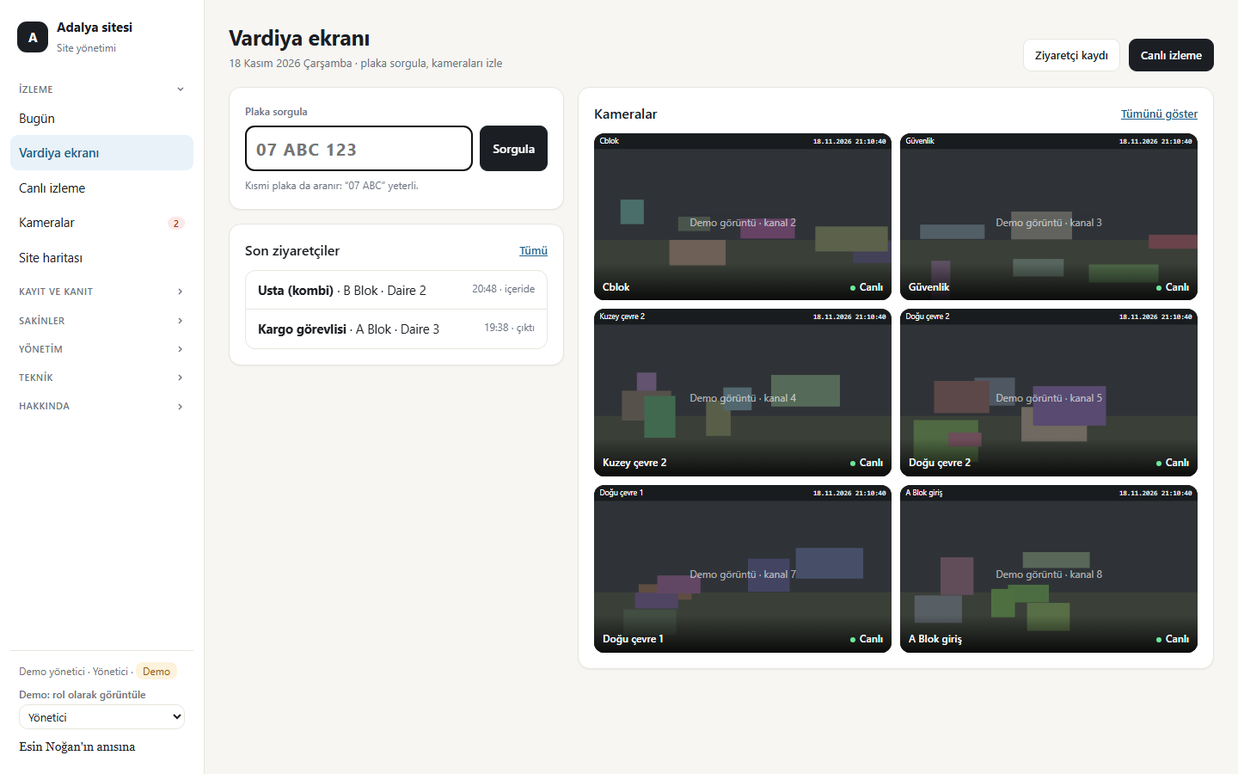
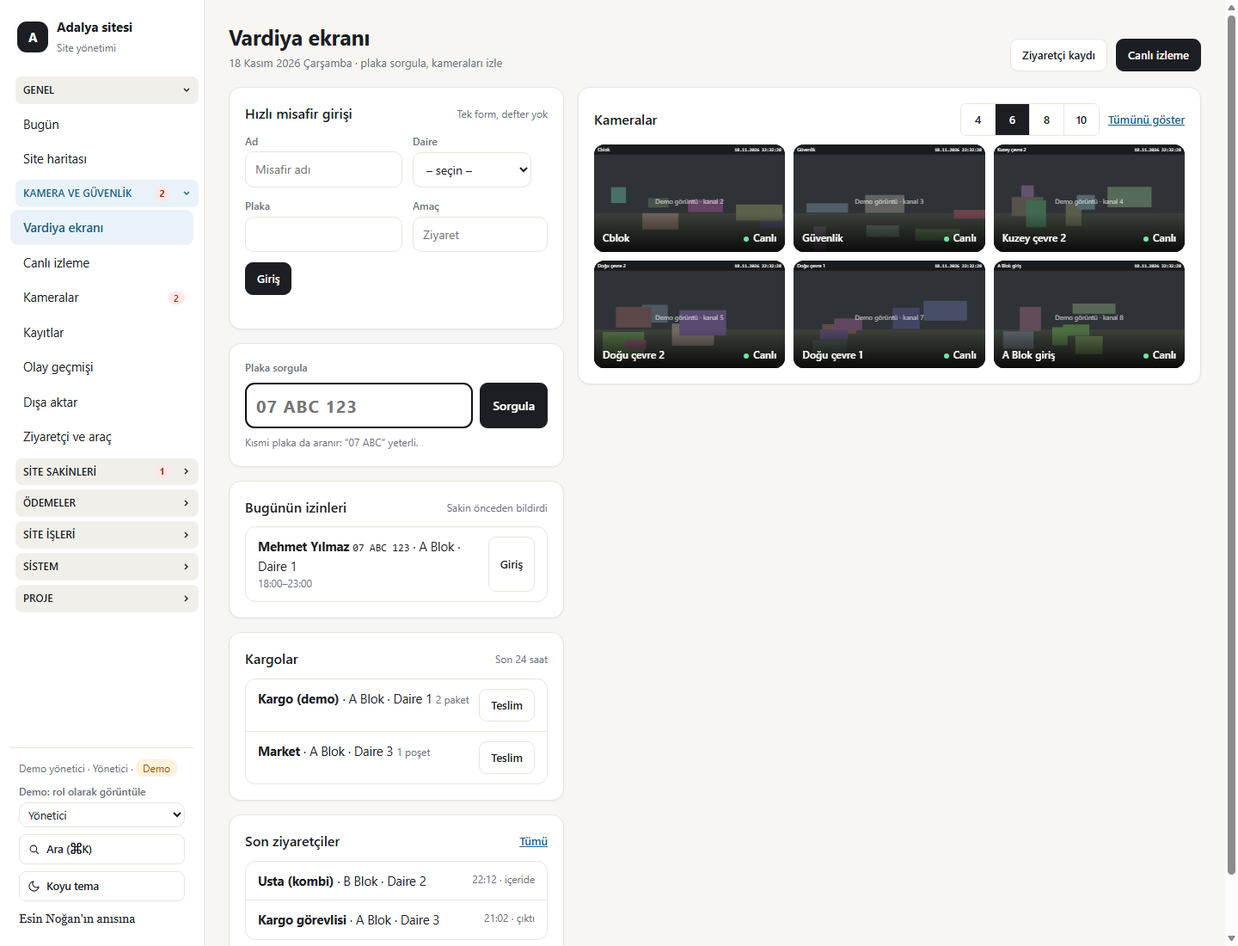
Docs updated for version 3.0
- README: current build 3.0, 204 checks, request threads, notifications,
  resident cars, biography, five phone tabs, current screenshots, demo
  on port 3000 with /demo?role= links
- NEXT-PROMPT: state as of 19 Nov, current build, menu/page names,
  phases through 8, remote-access security status, demo instructions
- INSTALL: try-the-demo section, port choice, resident self-registration
  and 2 accounts/2 devices, PWA/HTTPS and background-push limits
- TEST-PLAN: demo checks for threads, notifications, cars, vardiya wall,
  registration and memorial; current page names

diff --git a/README.md b/README.md
@@ -69,16 +69,17 @@ The addressing was fixed (DHCP pool moved to `.150–.200`, cameras pinned to th
 
 | | |
 |---|---|
-| ![Bugün](docs/screenshots/bugun.png) **Bugün** · what needs attention now | ![Vardiya ekranı](docs/screenshots/vardiya.png) **Vardiya ekranı** · plate lookup and the camera wall |
+| ![Bugün](docs/screenshots/bugun.png) **Bugün** · what needs attention now | ![Vardiya ekranı](docs/screenshots/vardiya.png) **Vardiya ekranı** · quick guest entry and the 4/6/8/10 camera wall |
 | ![Canlı izleme](docs/screenshots/canli-izleme.jpg) **Canlı izleme** · picture from every camera | ![Site haritası](docs/screenshots/site-haritasi.jpg) **Site haritası** · cameras on the 3D view of the site |
-| ![Dairem](docs/screenshots/dairem.png) **Dairem** · the resident's phone home | ![Kayıtlar](docs/screenshots/kayitlar.jpg) **Kayıtlar** · find and download recordings |
-| ![Proje](docs/screenshots/proje.jpg) **Proje** · the memorial and the story of the project | |
+| ![Dairem](docs/screenshots/dairem.png) **Dairem** · resident phone home with notifications, cars and requests | ![İstekler](docs/screenshots/talepler.png) **İstekler** · conversation thread and Açık/İşlemde/Kapalı |
+| ![Bildirimler](docs/screenshots/bildirimler.png) **Bildirimler** · announcements and messages on the phone | ![Proje](docs/screenshots/proje.png) **Proje** · the memorial, biography and the story of the project |
+| ![Kayıt formu](docs/screenshots/kayit.png) **Kayıt formu** · public `/kayit`, phone required | ![Daire sayfası](docs/screenshots/daire.png) **Daire sayfası** · people, cars, accounts, requests, aidat |
 
 *Screenshots are from demo mode, so the camera pictures are simulated.*
 
 ## Features, page by page
 
-The menu on the left is grouped into seven groups for staff: **Genel**, **Kamera ve güvenlik**, **Site sakinleri**, **Ödemeler**, **Site işleri**, **Sistem** and **Proje**; residents get a **Site** group with Dairem. The active section header is highlighted, and a group shows the **sum of its sub-item notifications** on the header even when collapsed. A light/dark switch sits at the bottom of the menu (it follows the system until you choose), and **Ara (⌘K / Ctrl+K)** opens a quick search over residents, phones, plates, flats, documents, contracts and announcements. Residents get four large tabs at the bottom on a phone.
+The menu on the left is grouped into seven groups for staff: **Genel**, **Kamera ve güvenlik**, **Site sakinleri**, **Ödemeler**, **Site işleri**, **Sistem** and **Proje**; residents get a **Site** group with Dairem. The active section header is highlighted, and a group shows the **sum of its sub-item notifications** on the header even when collapsed. A light/dark switch sits at the bottom of the menu (it follows the system until you choose), and **Ara (⌘K / Ctrl+K)** opens a quick search over residents, phones, plates, flats, documents, contracts and announcements. Residents get five large tabs at the bottom on a phone (Dairem, Kameralar and Harita when allowed, Bildirimler, Proje).
 
 ### İzleme (monitoring)
 
@@ -97,8 +98,8 @@ The menu on the left is grouped into seven groups for staff: **Genel**, **Kamera
 | **Mesaj gönder** | **Reminder queue**: prepare one message per overdue flat (with balance, oldest due date and IBAN), optionally automatic on a chosen day of the month, with a send log ("Bekliyor / Gönderildi / İptal") and a WhatsApp button per row. Then pick recipients (all, owners, tenants, flats with overdue aidat, flats with any debt, the flats selected on another page; per blok) and a template (free text, aidat reminder, second aidat notice, monthly aidat notice, payment thank-you, "confirm your details and vehicles", ordinary general assembly invitation). Placeholders such as {bakiye}, {geciken}, {geciken_donem}, {iban} are filled per flat. The panel fills each person's name, flat, phone and vehicles, then gives a **WhatsApp** button per person (opens the chat with the text; you press send), e-mail (per person or BCC in batches) and **printable letters** with a signature list for legal notice (imza karşılığı, at least 15 days before the meeting). Tick the recipients you want and press **Uygulama bildirimi gönder** to deliver the message to those flats' accounts inside the panel and on their phones. |
 | **İstekler** | Requests with a **category** (bakım/onarım, arıza, temizlik, gürültü, araç/otopark, diğer) and an optional **photo** (max 5 MB, admin and owner only — not visible to Güvenlik). Each request is a **conversation**: the resident writes, the management replies, the resident can follow up, and the thread is kept. Statuses are **Açık / İşlemde / Kapalı**; filter by status and category, reply, change status or close. A closed request no longer accepts replies (the resident opens a new one). |
 | **Duyurular** | Announcement board: the manager publishes a duyuru, arıza/kesinti, toplantı or güvenlik notice, pins the important ones, and sees **how many people read it and who**. Residents see unread items highlighted, press **Okudum**, and get an unread badge in the menu and on their phone tabs. Publishing also creates an **in-app notification** for every active resident (bell + phone tab); while the panel/app is open and permission is granted, the phone shows a browser notification. No e-mail or WhatsApp needed for water cuts and elevator outages. |
-| **Aidat ve tahsilat** | Monthly aidat per flat (equal, or a monthly total split by arsa payı), created for a month with one click (never twice). Payments (havale, nakit, kart) close the oldest debt first. Shows this month's charges and collections, total receivable, overdue amounts and flats, the oldest due date, and an estimated late fee (KMK 20, up to 5% a month, only calculated, not charged). Full account statement per flat; wrong entries can be deleted (logged). **Makbuz**: a numbered receipt for any payment (year-00001), printable or saved as PDF from the browser; residents see their own receipts. An optional **payment link** (bank/POS) is shown to residents as "Ödeme yap". **Bank statement import**: upload a CSV (tarih, tutar, açıklama), the panel matches rows to flats by plate, name or "A Blok 3", you correct what it missed, then records them as payments. Bulk actions on selected flats: prepare reminders, write a message, mark paid in full, add an extra charge (repair share, late fee). Settings: amount, due day, late-fee rate, the site's bank account (IBAN), payment link. CSV export. |
-| **Sakin kamera erişimi** | Master switch (off by default) for residents watching cameras. Default access per column: "Tüm sakinler" (shared areas such as the main gate) and per blok (that blok's entrance, elevator, parking); "Kamera adına göre öner" ticks cameras whose name contains the blok. A flat can get its own list in Daireler ve kişiler → Düzenle. Residents get the live picture only; the first view of each camera per day is logged. |
+| **Aidat ve ödemeler** | Monthly aidat per flat (equal, or a monthly total split by arsa payı), created for a month with one click (never twice). Payments (havale, nakit, kart) close the oldest debt first. Shows this month's charges and collections, total receivable, overdue amounts and flats, the oldest due date, and an estimated late fee (KMK 20, up to 5% a month, only calculated, not charged). Full account statement per flat; wrong entries can be deleted (logged). **Makbuz**: a numbered receipt for any payment (year-00001), printable or saved as PDF from the browser; residents see their own receipts. An optional **payment link** (bank/POS) is shown to residents as "Ödeme yap". **Bank statement import**: upload a CSV (tarih, tutar, açıklama), the panel matches rows to flats by plate, name or "A Blok 3", you correct what it missed, then records them as payments. Bulk actions on selected flats: prepare reminders, write a message, mark paid in full, add an extra charge (repair share, late fee). Settings: amount, due day, late-fee rate, the site's bank account (IBAN), payment link. CSV export. |
+| **Sakinlerin kamera izni** | Master switch (off by default) for residents watching cameras. Default access per column: "Tüm sakinler" (shared areas such as the main gate) and per blok (that blok's entrance, elevator, parking); "Kamera adına göre öner" ticks cameras whose name contains the blok. A flat can get its own list in Daireler ve kişiler → Düzenle. Residents get the live picture only; the first view of each camera per day is logged. |
 | **Dairem** (residents) | A phone-first home: greeting, flat chip, one large balance card ("Ödenecek tutar", overdue in amber, IBAN/Ödeme bilgisi and Hareketler buttons), four big tiles (requests, vehicles, aidat history, cameras if allowed), household, **Araçlarım** (the resident can add, edit or remove up to 2 vehicles; the plate stays unique across the site), **guest passes** (name, plate, date and time window — the gate sees them immediately), **parcels** the guard has logged, aidat details and ledger, a form to write to the management, **request threads with replies and follow-ups**, a **Bildirimler** tab with the bell badge, and password change. |
 
 ### Kayıt ve kanıt (recordings and evidence)
@@ -106,7 +107,7 @@ The menu on the left is grouped into seven groups for staff: **Genel**, **Kamera
 | Page | What you get |
 |---|---|
 | **Kayıtlar** | Pick a camera, date and time range (or "Son 1 saat", "Son 6 saat", "Bugün", "Dün"). Lists the NVR's recording files with size and events. **İndir** downloads a file. |
-| **Olaylar ve loglar** | The panel's own drop history for any date range, and the NVR's own logs (logins, video loss, reboots, disk). Both export to CSV. |
+| **Olay geçmişi** | The panel's own drop history for any date range, and the NVR's own logs (logins, video loss, reboots, disk). Both export to CSV. |
 | **Dışa aktar** | **Full package (zip)** for the last 1/7/30/90 days, quick CSV exports, and the **download log**: who downloaded what and when (admins only), with filters by date, person, action and detail, and **CSV export** of the filtered log (the export itself is logged). |
 
 ### Yönetim (management)
@@ -164,7 +165,15 @@ python adalya_panel.py --demo
 
 On Windows you can instead **double-click `demo.bat`**. On macOS/Linux use `python3`.
 
-It opens `http://127.0.0.1:8080` in your browser (if 8080 is busy it takes the next free port and prints it). The demo has a simulated NVR, fictional residents with six months of aidat, cameras that drop now and then like the real problem, and a selector at the bottom of the menu to view the panel as Yönetici, Güvenlik or Site sakini. No login.
+It opens `http://127.0.0.1:8080` in your browser (if 8080 is busy it takes the next free port and prints it). The demo has a simulated NVR, fictional residents with six months of aidat, cameras that drop now and then like the real problem, two seeded notifications, and a selector at the bottom of the menu to view the panel as Yönetici, Güvenlik or Site sakini. No login.
+
+To try it on a phone on the same Wi-Fi, start it on a fixed port and bind the LAN:
+
+```bash
+python adalya_panel.py --demo --lan --port 3000
+```
+
+Then open on the phone `http://<pc-ip>:3000/demo?role=resident&to=/%23/dairem` (resident), `.../demo?role=staff&to=/%23/vardiya` (guard) or `.../demo?role=admin` (manager). The `/demo` link sets the role cookie and continues to the page; it exists only in demo mode.
 
 The demo works on **fresh copies** in `data-demo/` (recreated at every start), so trying it, dragging pins or adding devices never changes the real `devices.json`, `site.json` or memorial photo. Stop it with Ctrl+C (or close the window).
 
@@ -176,7 +185,7 @@ The short version (full guide: [INSTALL.md](INSTALL.md)):
 
 1. Put the panel on **one always-on computer** in the security room, wired to the switch and on the UPS.
 2. Give it a fixed address (`192.168.0.30`) with a DHCP reservation on the router.
-3. Start it with `start-panel.bat` (or `python adalya_panel.py --lan --port 8080`). It always uses port 8080 so bookmarks keep working, and says so if that port is taken. It restarts itself if it stops. Allow Python through Windows Firewall on private networks.
+3. Start it with `start-panel.bat` (or `python adalya_panel.py --lan --port 8080`, or any other free port such as `--port 3000`). It always uses port 8080 by default so bookmarks keep working, and says so if that port is taken. It restarts itself if it stops. Allow Python through Windows Firewall on private networks.
 4. Open `http://127.0.0.1:8080` on that computer and **create the first admin account**.
 5. **Ayarlar → NVR bağlantısı**: enter the NVR address, user and password. The password is never saved, so reconnect after each restart.
 6. **Ayarlar → Kullanıcılar**: create an account for each person.
@@ -193,7 +202,7 @@ Everyone logs in with their **own username and password**. Their name appears in
 |---|---|
 | **Güvenlik** (watchman, security staff; was "Görevli") | Live view, cameras, map, recordings search and download, logs, exports, maintenance notes, residents' names, phones and vehicles (read only), plate lookup, visitor log, change own password |
 | **Yönetici** (site manager) | Everything above, plus residents registry (add, edit, Excel/CSV import, export), messages to residents, resident requests, device inventory, NVR connection, users, memorial section, map editing, site settings, and the download log |
-| **Site sakini** (resident) | Only their own flat: household, vehicles, **aidat balance and history**, their requests to the management, own password. If the manager allows it, the **live picture** of selected cameras (Canlı izleme and Site haritası show only those). **Never recordings, logs, other devices or other residents.** The account is linked to one flat. |
+| **Site sakini** (resident) | Only their own flat: household, **Araçlarım (add/edit up to 2 vehicles)**, **aidat balance and history**, their requests with the management as a **conversation** (reply/follow up until it is closed), **Bildirimler** (announcements/messages), guest passes, parcels, own password. If the manager allows it, the **live picture** of selected cameras (Canlı izleme and Site haritası show only those). **Never recordings, logs, other devices or other residents.** The account is linked to one flat. |
 
 - KVKK: Güvenlik sees only what the job needs (no e-mail, arsa payı or notes; people with a move-out date are hidden). Every plate lookup, registry export and import is written to the download/action log with who and when.
 - In demo mode a selector at the bottom of the menu lets you view the panel as each role.
@@ -207,7 +216,7 @@ Everyone logs in with their **own username and password**. Their name appears in
 ## If something happens: getting recordings and logs
 
 1. **Bugün**: which camera is down, and since when?
-2. **Olaylar ve loglar**: find the time range of the incident (panel drops and NVR logs).
+2. **Olay geçmişi**: find the time range of the incident (panel drops and NVR logs).
 3. **Kayıtlar**: choose the camera and time, then **İndir** the files. They are Dahua `.dav` files; open them with **Dahua SmartPlayer** (VLC plays most of them).
 4. **Dışa aktar → Tam paket**: download the zip covering those days. It contains:
 
@@ -332,7 +341,7 @@ Camera recordings, logs, the residents registry (names, phones, e-mails, vehicle
 - **Done:** monitoring, drop history, map, recordings, logs, exports, download log, maintenance log, user accounts, memorial section, demo mode, site test toolkit.
 - **Done (18 Nov):** 8 / 16 / 32 view grid on Canlı izleme, device-type icons, readable labels and a device card on the maps, collapsible menu, device inventory editor; roles Yönetici / Güvenlik / Site sakini; flats, people and vehicles registry with Excel/CSV import, plate lookup and visitor log; messages (WhatsApp, e-mail, printable letters with signature list); resident requests; aidat and collections with reminders and bulk actions; resident camera access.
 - **Done (18 Nov, Phase C):** yearly calendar of the manager's legal duties with tickable KMK items and dated tasks, contracts and insurance policies with expiry alerts, document archive; "Yaklaşan işler" alerts on the home page.
-- **Done (18 Nov, UI refresh):** new task-first **Bugün** home (attention list, counters, agenda, quick actions), **Vardiya ekranı** for security (plate search + 6-camera wall), phone-first **Dairem** with a large balance card and bottom tabs for residents, calmer type and spacing, 44 px touch targets, plain-language labels, and a reduced menu (technical pages under **Teknik**).
+- **Done (18 Nov, UI refresh):** new task-first **Bugün** home (attention list, counters, agenda, quick actions), **Vardiya ekranı** for security (plate search + camera wall), phone-first **Dairem** with a large balance card and bottom tabs for residents, calmer type and spacing, 44 px touch targets, plain-language labels.
 - **Done (18 Nov, Phase 1 of the roadmap):** announcement board with read receipts and unread badges; resident guest passes that appear instantly in the gate screen; parcel log at the gate and in Dairem; manual light/dark theme; highlighted menu section headers.
 - **Done (18 Nov, Phase 2):** request categories and photos; global search (⌘K) for managers and security; audit log filters and CSV export; daily automatic backups with a tested in-place restore (data/, config, site, devices and uploaded files).
 - **Done (18 Nov, Phase 3):** numbered printable receipts (per year) with resident access to their own; optional payment link for residents; bank statement CSV import with plate/name/flat matching and manual correction.
@@ -341,7 +350,8 @@ Camera recordings, logs, the residents registry (names, phones, e-mails, vehicle
 - **Done (18 Nov, Phase 6):** daily-Turkish menu (Genel, Kamera ve güvenlik, Site sakinleri, Ödemeler, Site işleri, Sistem, Proje); **public registration** at `/kayit` (phone required, e-mail optional, mülk sahibi/kiraci, up to 2 vehicles, 1–2 devices, KVKK consent) with admin approval and **invite links**; per-flat page with people, unlimited vehicles, 2 accounts, requests and aidat; **Kullanıcılar ve cihazlar**; **2-device limit** (install id / device cookie, no MAC); vardiya quick guest entry; arsa payı removed from screens (kept for finance).
 - **Done (18 Nov, Phase 7):** vardiya camera wall selectable 4 / 6 / 8 / 10 (remembered), click a tile for a large live view; menu group headers show the sum of their notifications.
 - **Done (18 Nov, Phase 8):** request **conversations** with Açık / İşlemde / Kapalı statuses and resident follow-ups; **notification center** (bell, phone tab, badge) fed by new announcements and by **Mesaj gönder → Uygulama bildirimi** with ticked recipients; residents can add/edit **up to 2 vehicles**; **Esin Noğan biography** on the Proje page and in Ayarlar; PNG app icons and an install button; `/demo?role=…&to=…` role switch for testing.
-- **Tests:** `tests/api_smoke.py` runs 88 checks (roles, KVKK limits, import, plate lookup, devices, aidat math, camera access, calendar, contracts, documents) against a demo server.
+- **Current build: version 3.0** (19 Nov 2026). Real data is never committed; the demo recreates `data-demo/` at every start.
+- **Tests:** `tests/api_smoke.py` runs **204 checks** (roles and KVKK limits, import CSV/XLSX, plate lookup, devices, aidat math, camera access, calendar, contracts, documents, announcements, guest passes, parcels, request threads/statuses, search, audit filters/CSV, backups and restore, receipts, payment link, bank import, budget, income/expense, reminders, login throttle, TOTP, PWA/icons, registration/approval/invite, notifications and resident cars). Start a fresh demo on another port and run it against that server; it never touches the real data.
 - **Tested** against a simulated Dahua NVR: login, snapshots, recording search and download, logs, exports, lockout protection, permissions.
 - **Not yet tested against the real NVR** on site; see TEST-PLAN.md step 7.
 - **Ongoing on site:** finishing the IP reservations, recovering the cameras still on `192.168.1.x`, a site walk for offline cameras, tuning the weak Güney cameras. An outdoor access point for the south side is **under consideration, not decided**.

diff --git a/NEXT-PROMPT.md b/NEXT-PROMPT.md
@@ -1,8 +1,8 @@
 # Next session prompt: Adalya Paneli + Adalya CCTV troubleshooting
 
-Copy everything below the line into a new session. Replace `<FOLDER>` with where the `adalya-toolkit` folder lives (on my PC it is in `OneDrive\Masaüstü\Esin`). Open the session **in that folder**, not in a temporary one.
+Copy everything below the line into a new session. Replace `<FOLDER>` with where the `adalya-toolkit` folder lives (on my PC it is in `OneDrive\Masaüstü\adalya-toolkit`). Open the session **in that folder**, not in a temporary one.
 
-*State as of 18 November 2026, Phase C included (calendar, contracts, documents, UI refresh).*
+*State as of 19 November 2026: **version 3.0**, Phase 8 (request threads, notifications, resident cars, biography) included.*
 
 ---
 
@@ -22,19 +22,23 @@ I'm continuing two connected pieces of work for **Adalya Sitesi** (a residential
 - One command must keep working on a fresh download: `python adalya_panel.py --demo` (or double-click `demo.bat`). Standard library only, Python 3.9+; no f-string tricks that need 3.12.
 
 ## What the panel does today (all built and tested in demo)
-- **Roles:** Yönetici (everything), Güvenlik (was "Görevli": cameras, recordings, logs, residents' names/phones/vehicles read-only, plate lookup, visitor log), Site sakini (own flat only). Demo has a role selector at the bottom of the menu.
+- **Roles:** Yönetici (everything), Güvenlik (was "Görevli": cameras, recordings, logs, residents' names/phones/vehicles read-only, plate lookup, visitor log), Site sakini (own flat only). Demo has a role selector at the bottom of the menu and `/demo?role=…&to=…` links.
+- **Current build:** version 3.0, 204 API checks. Demo on a phone: `python adalya_panel.py --demo --lan --port 3000` then `http://<pc-ip>:3000/demo?role=resident&to=/%23/dairem`.
 - **Menu:** daily-Turkish groups — **Genel** (Bugün, Site haritası), **Kamera ve güvenlik** (Vardiya ekranı, Canlı izleme, Kameralar, Kayıtlar, Olay geçmişi, Dışa aktar, Ziyaretçi ve araç), **Site sakinleri** (Daireler ve sakinler, Kayıt istekleri, İstekler, Duyurular, Mesaj gönder, Sakinlerin kamera izni), **Ödemeler** (Aidat ve ödemeler, Yıllık bütçe, Gelir-gider), **Site işleri** (Takvim ve işler, Sözleşmeler, Belgeler, Bakım günlüğü), **Sistem** (Kullanıcılar ve cihazlar, Ağ cihazları, Yedekler, Kayıt cihazı (NVR), Ayarlar), **Proje**; residents get Dairem + bottom tabs (Dairem, Kameralar/Harita if allowed, Proje). Active section header highlighted; state remembered per browser. **Ara (⌘K/Ctrl+K)** opens global search for admin/staff.
 - **UI (18 Nov refresh):** new **Bugün** home (greeting, 4 counters, "Şimdi ilgilenmeniz gerekenler" with one action per row, agenda, 4 quick actions), **Vardiya ekranı** (plate search + 6 live snapshots + today's visitors), phone-first **Dairem** (large balance card, tiles, bottom tabs), design tokens (15 px base, 14 px cards, 44 px targets, plain-language status chips), technical pages moved under Teknik, **manual light/dark theme** (bottom of the menu, follows the system until chosen, `?theme=dark` link for testing). Version 3.0.
 - **İzleme:** Canlı izleme (8/16/32 tiles with paging, full screen, snapshot scheduler ≈1.4 req/s, max 2 in flight; enlarged view refreshes continuously up to 4 fps and shows the frame rate), Kameralar, Site haritası (type icons with status colours, readable name pills that avoid overlaps, device card, drag-to-place in edit mode), Ağ cihazları (+ **device inventory editor**: add/edit/remove cameras and devices with the correct order: MAC → router reservation below .150 → NVR channel → panel → map).
-- **Kayıt ve kanıt:** Kayıtlar (search/download from NVR), Olaylar ve loglar, Dışa aktar (zip, audit log).
-- **Sakinler:** Daireler ve kişiler (flats, people malik/kiracı/hane, vehicles; Excel .xlsx/CSV import with preview; CSV export; aidat column with one-click **Hatırlat** via WhatsApp/e-mail; checkboxes + bulk actions), Aidat ve tahsilat (monthly charges equal or by arsa payı, payments close oldest debt first, overdue, estimated KMK 20 late fee, ledger per flat, bulk paid/charge, IBAN settings, CSV), Ziyaretçi ve araç (plate lookup, visitor log), Mesaj gönder (WhatsApp click-to-send, e-mail, printable letters + signature list; templates incl. aidat reminder, second notice, monthly notice, thank-you, details confirmation, genel kurul invitation; recipients incl. overdue / selected flats), Talepler (resident requests), **Sakin kamera erişimi** (master switch, off by default; defaults "Tüm sakinler" + per blok; per-flat override in the flat editor; residents get live picture only, first daily view per camera logged).
+- **Kayıt ve kanıt:** Kayıtlar (search/download from NVR), Olay geçmişi, Dışa aktar (zip, audit log).
+- **Site sakinleri:** **Daireler ve sakinler** (searchable flats; per-flat page `#/daire?id=…` with people mülk sahibi/kiraci/hane, unlimited vehicles, max 2 accounts with invite/device reset/delete, that flat's requests and aidat; Excel/CSV import with preview; aidat column with **Hatırlat**; checkboxes + bulk actions), **Kayıt istekleri** (public `/kayit` → admin approve → 14-day invite link; max 2 accounts per flat), **İstekler** (conversation threads, **Açık / İşlemde / Kapalı**, resident follow-ups), **Duyurular** (publish/pin, read receipts, in-app notification), **Mesaj gönder** (WhatsApp click-to-send, e-mail, printable letters with signature list, plus **Uygulama bildirimi** to ticked recipients), **Sakinlerin kamera izni** (per-flat live-picture access only).
+- **Ödemeler:** **Aidat ve ödemeler** (charges equal or by arsa payı, payments close oldest debt, overdue, KMK 20 estimate, ledger per flat, receipts, payment link, bank CSV import, IBAN settings), **Yıllık bütçe** (KMK 37 işletme projesi: lines, per-flat advance, notify → 7-day objection → finalise), **Gelir-gider** (categories, yearly totals, CSV).
+- **Site işleri:** Takvim ve işler (KMK duties), Sözleşmeler, Belgeler, Bakım günlüğü.
+- **Sistem:** Kullanıcılar ve cihazlar (status, devices, invite, reset, suspend, delete), Ağ cihazları, Yedekler, Kayıt cihazı (NVR), Ayarlar (users, NVR, memorial biography, map, dues, backups).
 - **Dairem (resident):** own flat, household, vehicles, aidat balance/overdue/history and IBAN, requests to management with answers, password, links to their cameras.
 - **Yönetim (Phase C):** Takvim ve görevler (6 yearly + 12 monthly KMK duties, tickable per year, own tasks + templates; page says it is not legal advice), Sözleşmeler ve poliçeler (valid / 30 gün içinde bitiyor / süresi geçti, linked document), Belgeler (upload/download/delete archive in `data/belgeler/`). Admin only; every change and download logged. Admin alert cards on Bugün.
 - **Resident services (Phase 1 of the 14-feature roadmap):** **Duyurular** (publish/pin/delete; residents mark Okudum; admin sees read count and reader names; unread badge), **guest passes** (resident creates name/plate/date/time window; Vardiya lists today's passes with "Giriş"; used passes close), **parcel log** (guard logs courier + flat, "Teslim", resident sees it in Dairem).
 - **Phase 2:** request **categories + photos** (JPG/PNG/WEBP ≤5 MB, photo visible to admin and owner, blocked for staff), **global search** (⌘K: people, phones, plates, flats, documents, contracts, announcements), **audit filters + CSV**, **daily automatic backups** in `data/yedekler/` with download and in-place restore (typed GERI YUKLE; safety backup first; DB restored via SQLite backup API).
 - **Phase 3:** numbered printable **receipts** (per year, browser → PDF; resident sees own), optional **payment link** in dues settings shown as "Ödeme yap", **bank CSV import** with preview, matching by plate/name/"A Blok 3" and apply as payments.
 - **Phase 4:** **İşletme projesi** (KMK 37): income/expense lines, totals, per-flat advance by arsa payı, notify → 7-day objection window (lines lock) → finalise (early final needs confirmation); **Gelir-gider** beyond aidat with categories, yearly totals and CSV.
-- **Phase 5:** **reminder queue** (prepare one message per overdue flat, automatic on a chosen day, send log with Bekliyor/Gönderildi/İptal and a WhatsApp button); **security**: login throttle per user+IP and per IP, TOTP two-step login for admins, `Secure` session cookie behind HTTPS; **PWA**: manifest, SVG icon and service worker (install on localhost/HTTPS).
+- **Phase 5:** **reminder queue** (prepare one message per overdue flat, automatic on a chosen day, send log with Bekliyor/Gönderildi/İptal and a WhatsApp button); **security**: login throttle per user+IP and per IP, TOTP two-step login for admins, `Secure` session cookie behind HTTPS; **PWA**: manifest, PNG/SVG icons and service worker (install on localhost/HTTPS).
 - **Phase 6 (registration and accounts):** public `/kayit` form (ad soyad, phone required, e-mail optional, blok/kat/daire, mülk sahibi/kiraci, up to 2 vehicles, 1–2 devices, KVKK consent, 5/hour/IP); **Kayıt istekleri** admin queue with approve (creates flat/person/vehicles + resident account with 14-day **invite link**), correction/reject; `/davet?token=…` password page; **max 2 accounts per flat** (admin can force a third); **2 devices per account** via `X-Device-Id` or device cookie (no MAC — store apps are planned); **Kullanıcılar ve cihazlar** page (status, devices, invite, reset, suspend, delete — admin only); per-flat page with people, unlimited vehicles, accounts, that flat's requests and aidat; vardiya **quick guest entry**; arsa payı hidden from screens but kept for aidat/budget finance.
 - **Phase 7:** vardiya camera wall selectable **4 / 6 / 8 / 10** (localStorage), tile click opens a large live view (Esc closes); menu group headers aggregate sub-item notification counts (collapsed too).
 - **Phase 8:** request **threads** (resident ↔ management, follow-ups) with **Açık / İşlemde / Kapalı**; **notifications** table + bell/phone tab/badge fed by announcements and by **Mesaj gönder → Uygulama bildirimi** (tick recipients); resident **Araçlarım** add/edit up to **2** vehicles; **Esin Noğan biography** (18 Haziran 2026 04:30, Zonguldak, Eskişehir/Sinop roots, memur family, Antalya, Pamukkale + Near East University) on Proje and in Ayarlar; PNG 192/512 icons + install button; `/demo?role=resident&to=/%23/dairem` for testing. Background push still needs HTTPS + VAPID.
@@ -49,7 +53,7 @@ Update `devices.json`, the troubleshooting status below, and the checklist from 
 Snapshots are near-live only. Plan: a small media server (**go2rtc**, single exe, or MediaMTX) on the panel PC pulls each camera's **RTSP sub stream** from the NVR (`rtsp://<user>:<pass>@192.168.0.23:554/cam/realmonitor?channel=N&subtype=1`) **once**, however many people watch, and serves it to the browser (WebRTC/MSE, under 1 s delay). It must listen on localhost only; browsers reach it **through the panel**, so roles and resident camera access still apply (needs a WebSocket/HTTP proxy in the panel, standard library). Needs the sub stream in **H.264** (H.265 is unreliable in browsers; keep the main stream H.265 for recording) and a separate **view-only NVR user** whose login go2rtc stores (on the panel PC only, never in git). Fallback if it suits: the NVR's MJPEG stream (`/cgi-bin/mjpg/video.cgi?channel=N&subtype=1`) proxied by the panel. Keep the snapshot view as the fallback when video fails.
 
 ### 3. Remote access (decision still open; I haven't chosen yet)
-My recommendation so far: **managers/security** reach the panel from outside through a **VPN** (WireGuard or Tailscale), nothing port-forwarded. **Residents** get a separate **"portal mode"** (`--portal`) whose server has no camera/NVR/device routes at all, published with HTTPS (Cloudflare Tunnel needs no static IP or open port; or a small server). Resident camera viewing from home would then need the VPN or a later, separately hardened video path. Before anything faces the internet: login throttle **per user and IP** (today it is global, so one attacker could lock everyone out), `Secure` cookies, two-step login for Yönetici, password reset, backups, rate limits, KVKK aydınlatma metni. "Install as an app" = PWA (manifest + service worker), needs HTTPS. I mentioned a static IP and a domain; I still need to decide.
+My recommendation so far: **managers/security** reach the panel from outside through a **VPN** (WireGuard or Tailscale), nothing port-forwarded. **Residents** get a separate **"portal mode"** (`--portal`) whose server has no camera/NVR/device routes at all, published with HTTPS (Cloudflare Tunnel needs no static IP or open port; or a small server). Resident camera viewing from home would then need the VPN or a later, separately hardened video path. Before anything faces the internet, the panel already has per-user+IP login throttle (plus per-IP), `Secure` cookies behind HTTPS, TOTP two-step login, invite-based passwords, rate-limited registration, backups and KVKK consent on `/kayit`; still to add: a hardened portal mode, HTTPS deployment, and a documented aydınlatma metni. "Install as an app" = PWA (manifest + service worker), needs HTTPS. I mentioned a static IP and a domain; I still need to decide.
 
 ### 4. Roadmap phases still to build
 | Phase | What | State |
@@ -59,7 +63,7 @@ My recommendation so far: **managers/security** reach the panel from outside thr
 | E (part) | Aidat, payments, overdue, late fee, reminders | **Done** |
 | C | Yearly calendar with legal deadlines and alerts (see KMK list below), contracts and insurance policies with expiry dates, document archive | **Done** (18 Nov) |
 | D | Meetings and decision book: agenda, invitation letters (exists in Mesaj gönder), signature list, proxies, quorum by arsa payı and headcount, minutes; notarised paper book stays official, the panel prints the working copy | Later |
-| E (rest) | Income/expense beyond aidat, işletme projesi (KMK 37, yearly estimate → advance per flat; 7-day objection), yearly account report (KMK 39), receipts (makbuz) for payments | Later; ask whether the site already uses accounting software |
+| E (rest) | Income/expense beyond aidat, işletme projesi (KMK 37), receipts (makbuz) | **Done** (Phases 3–4) |
 | F | Online resident portal (see task 3) | Depends on the remote-access decision |
 
 **Site manager legal duties to turn into features** (Kat Mülkiyeti Kanunu 35–39):
@@ -71,8 +75,8 @@ My recommendation so far: **managers/security** reach the panel from outside thr
 - Practical list: ordinary general assembly in January, invitation ≥15 days before; enforce yönetim planı rules; elevator monthly maintenance, yearly A-type inspection, red label = stop use; roof, facade, sewage, booster pump, generator, heating; cleaning and landscaping; staff SGK, salaries, leave, severance; İSG (6331): risk assessment, safety specialist, workplace doctor; enforcement, kanuni ipotek, müdahalenin men'i.
 
 ### 5. Known gaps and small fixes
-- Resident accounts are created one by one in Ayarlar; consider bulk creation or invitation codes per flat.
-- Import preview counts duplicates of the same new person/plate within one file twice (flats are already handled).
+- Bulk onboarding is still one approval at a time; a later improvement is one invite code per flat and a CSV of links.
+- Import preview counts duplicate people/plates within one file twice (flats are already handled).
 - Aidat late fee is only calculated, never charged automatically (on purpose); receipts exist since Phase 3.
 - Map block labels are empty (put back A/B/C blok, Bahçe, Havuz, Otopark on the rotated render if I agree); `site.json` rotation is **45°** (earlier 34°): check it looks right on site. Camera map positions are guesses until the site walk.
 - `NEXT-PROMPT.md` itself: update it at the end of each session.
@@ -124,7 +128,7 @@ My recommendation so far: **managers/security** reach the panel from outside thr
 - Deployment plan: one always-on PC at `192.168.0.30` (DHCP reservation) running `start-panel.bat` (`--lan`); everyone uses a browser.
 
 ### Testing
-- Demo: `python adalya_panel.py --demo` or `demo.bat` → `http://127.0.0.1:8080` (next free port if busy; no login, simulated NVR, fictional residents and six months of aidat, role selector in the menu). It works on copies of `devices.json`/`site.json` in `data-demo/`, recreated at each start, so the real files stay untouched.
+- Demo: `python adalya_panel.py --demo` or `demo.bat` → `http://127.0.0.1:8080` (next free port if busy; no login, simulated NVR, fictional residents and six months of aidat, two seeded notifications, role selector in the menu). For a phone on the same Wi-Fi: `python adalya_panel.py --demo --lan --port 3000`, then open `http://<pc-ip>:3000/demo?role=resident&to=/%23/dairem` (or `role=staff` → Vardiya, `role=admin`). It works on copies in `data-demo/`, recreated at each start, so the real files stay untouched.
 - API tests (204 checks: roles and KVKK limits, import CSV/XLSX, plate lookup, visitors, devices, aidat math, resident camera access, calendar/duties/tasks, contracts, document upload/download/delete, announcements/read receipts, guest passes, parcels, request categories/photos/threads, search, audit filters/CSV, backups and restore, receipts, payment link, bank import, budget, income/expense, reminder queue, login throttle, TOTP, PWA/icons, registration/approval/invite, notifications, resident cars, audit): start a fresh demo with `--no-browser --port 8091`, then `python tests/api_smoke.py http://127.0.0.1:8091`.
 - Python compatibility: on Python 3.12+ the tokenizer can find f-strings that older Pythons reject (backslash or reused quote inside `{}`); keep the code 3.9-compatible.
 - After big HTML edits: extract the `<script>` from `panel.html` and run `node --check` on it; `python -m py_compile adalya_panel.py`. Then check the pages in the browser (use a separate tab if I'm clicking around in the preview myself).

diff --git a/INSTALL.md b/INSTALL.md
@@ -14,6 +14,14 @@ Why not install it on each device: every copy would ping the cameras on its own,
  http://192.168.0.30:8080 (browser, own username and password)
 ```
 
+## 0. Try the demo first (no setup)
+
+```bash
+python adalya_panel.py --demo --lan --port 3000
+```
+
+On the panel PC open `http://127.0.0.1:3000`; on a phone on the same Wi-Fi open `http://<pc-ip>:3000/demo?role=resident&to=/%23/dairem` (or `role=staff` for Vardiya, `role=admin` for the manager). The demo uses `data-demo/` and never touches the real data, so you can click everything safely.
+
 ## 1. The panel computer
 
 - Any Windows PC or small mini PC that can stay on: Intel N100 class, 8 GB RAM, SSD is plenty.
@@ -33,7 +41,7 @@ Find the PC's MAC with `ipconfig /all` (the "Physical Address" of the wired adap
 ## 3. Start it automatically
 
 1. Double-click `start-panel.bat` once. Windows Firewall will ask: allow Python on **private networks**.
-2. Open `http://127.0.0.1:8080` on the panel PC, create the first admin account.
+2. Open `http://127.0.0.1:8080` on the panel PC (or the port you chose with `--port`, e.g. `--port 3000`), create the first admin account.
 3. **Ayarlar → NVR bağlantısı**: connect the NVR. The NVR password is never saved, so after a restart someone logs in as admin and reconnects (the rest of the panel keeps working without it).
 4. Press `Win+R`, type `shell:startup`, and put a **shortcut** to `start-panel.bat` in that folder. The panel now starts with Windows and restarts itself if it ever stops.
 
@@ -49,9 +57,13 @@ Find the PC's MAC with `ipconfig /all` (the "Physical Address" of the wired adap
 
 Give each person their username and password privately. They can change their own password under **Ayarlar → Şifrem**. When someone leaves, delete their account.
 
+**Site residents** do not need to be created one by one: they apply at `http://192.168.0.30:8080/kayit` (name, phone required, e-mail optional, flat, owner/tenant, up to 2 cars, 1–2 devices, KVKK consent). Approve under **Site sakinleri → Kayıt istekleri**; the panel creates the account and gives you a 14-day **invite link** to send (WhatsApp is fine). A flat can hold **2 accounts**, and each account can bind **2 devices**. Only an admin can delete an account.
+
+**Notifications:** publishing a Duyuru or using **Mesaj gönder → Uygulama bildirimi** creates an in-app notification (bell, phone tab, badge). A phone notification while the app is open also needs browser permission. Background push and "install as an app" need **HTTPS**, which this LAN setup does not provide; see section 6 before promising them.
+
 ## 5. Opening it on phones and laptops
 
-On any device connected to the **site network**, open `http://192.168.0.30:8080` and add it to the home screen / bookmarks.
+On any device connected to the **site network**, open `http://192.168.0.30:8080` and add it to bookmarks. "Add to home screen" creates a shortcut; a true **installable app (PWA)** only works over **HTTPS or localhost**, so over plain HTTP it will keep opening in the browser — that is a browser rule, not a panel bug.
 
 ## 6. Access from outside the site (only if really needed)
 

diff --git a/TEST-PLAN.md b/TEST-PLAN.md
@@ -66,6 +66,20 @@ Try it at home first with simulated data:
 ```
 python adalya_panel.py --demo
 ```
+For a phone on the same Wi-Fi use a fixed port and `--lan`, then the role links:
+```
+python adalya_panel.py --demo --lan --port 3000
+http://<laptop-ip>:3000/demo?role=resident&to=/%23/dairem
+http://<laptop-ip>:3000/demo?role=staff&to=/%23/vardiya
+```
+Demo checklist before the site day:
+- [ ] **İstekler**: send a request as resident, reply/change status as admin, follow up as resident; close it.
+- [ ] **Bildirimler**: bell/phone tab badge, mark read; publish a Duyuru and send an application message from **Mesaj gönder**.
+- [ ] **Dairem → Araçlarım**: add, edit, remove; third car is refused.
+- [ ] **Vardiya**: 4/6/8/10 wall, click a tile to enlarge; quick guest entry.
+- [ ] **Kayıt istekleri**: submit `/kayit` from the phone, approve on the PC, open the generated invite link.
+- [ ] **Proje**: read the biography and check the memorial dates.
+
 On site, live (opens http://127.0.0.1:8080 in the browser):
 ```
 python adalya_panel.py
@@ -79,7 +93,7 @@ To show it on another screen on the site network: add `--lan`, then open `http:/
 Pages to test against the real NVR (each was tested only against a simulated Dahua NVR so far):
 - [ ] **Canlı izleme**: do the camera tiles show pictures? If all say "Görüntü alınamadı", the NVR's snapshot feature may be off.
 - [ ] **Kayıtlar**: pick Güney çevre 1, today, search. Do files appear? Download one and open it in Dahua SmartPlayer or VLC.
-- [ ] **Olaylar ve loglar → NVR logları**: do log lines appear?
+- [ ] **Olay geçmişi → NVR logları**: do log lines appear?
 - [ ] **Dışa aktar → Tam paket**: does the zip contain `nvr-log.csv`?
 - [ ] **NVR arayüzü**: does the NVR's own page open inside the panel, or only in a new tab?
 - [ ] **Genel bakış → NVR disk**: shows a %? If "?", bring back the `nvr-*` results from step 3.
